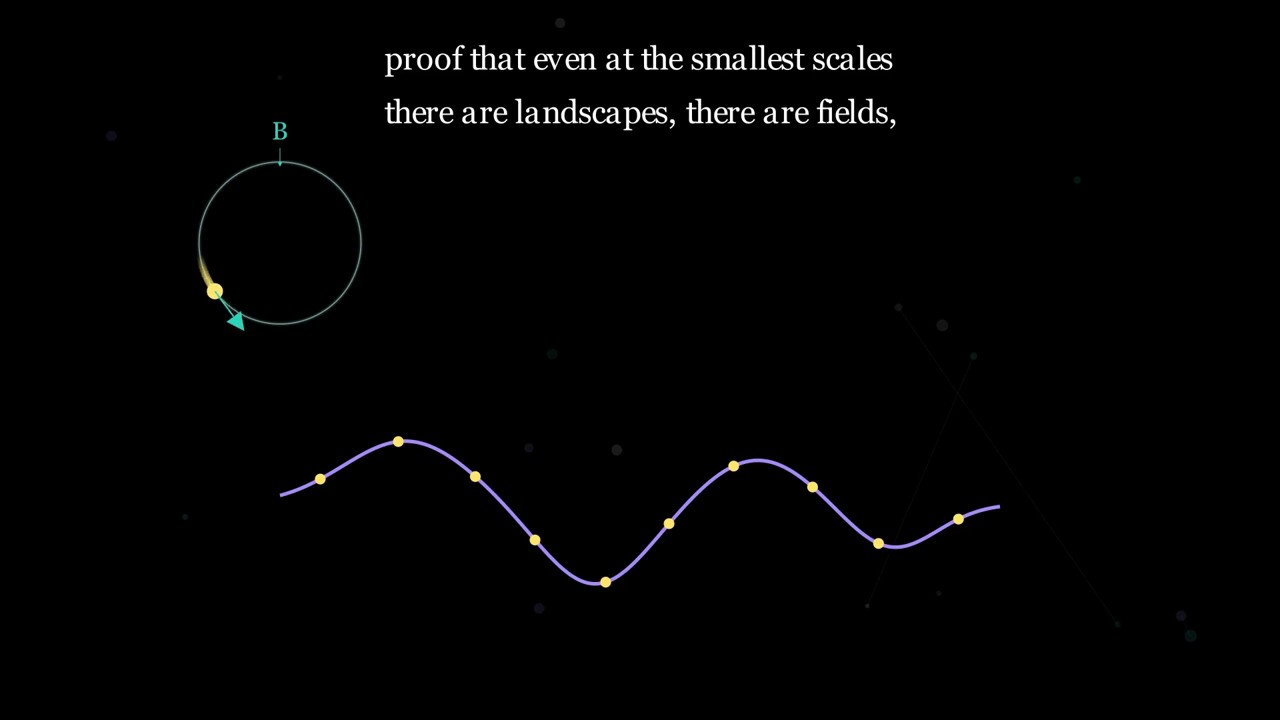
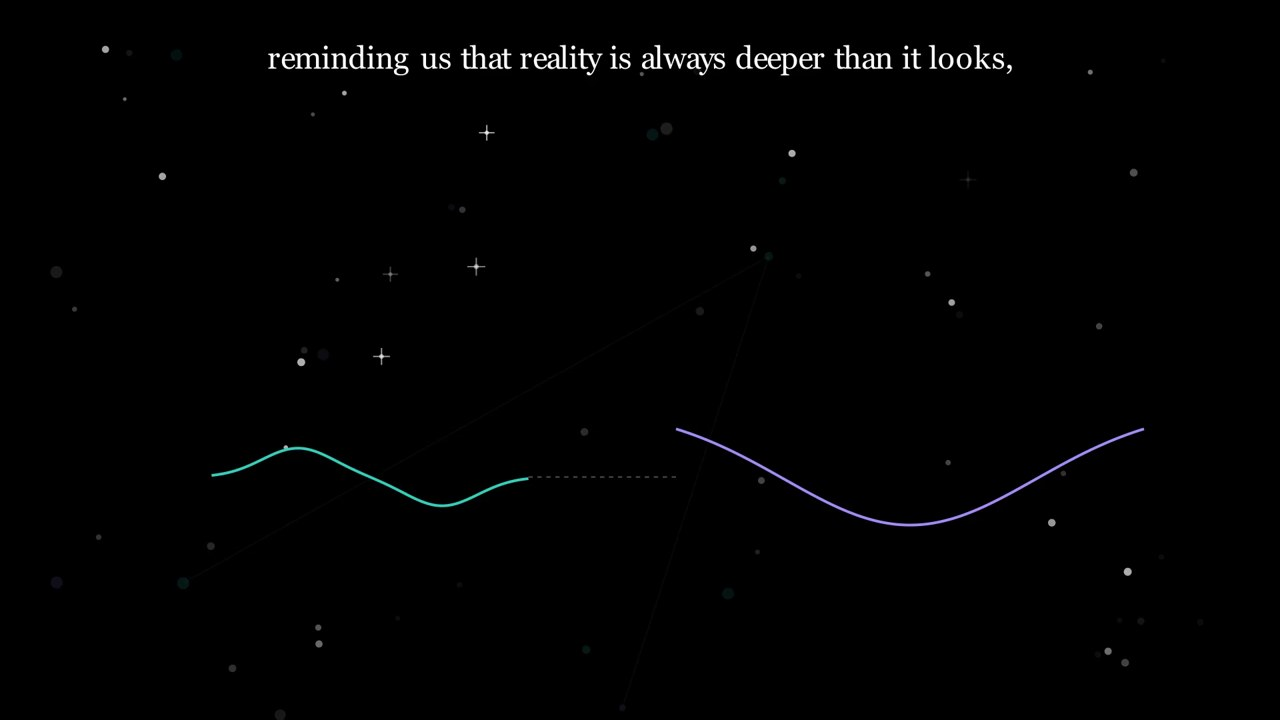
Hidden Geometry: connective transitions between sections
Replace the hard cuts between sections with meaning-carrying morphs so
the piece flows rather than jumping:
- intro curve folds up into the crystal lattice ("geometry folded inside
  matter")
- a lone electron drifts straight in, then the landscape rises under it
  so it begins to curve
- the solid measured curve breaks apart into dashed chalk (rewinds to
  when it "lived only in theory")
- the two landscapes converge to a point and the closing title grows out
  of where they meet
- captions crossfade across every section boundary

Add density: faint reference grid behind the hills, a mote spiralling the
black-hole well with a curved tail. All layered within existing timing;
confirmed 0-58s vocal sync untouched; runtime 153.6s (matches the song).
Refresh thumbnail to the two-landscapes-in-starfield frame.

diff --git a/manim/scenes/hidden_geometry.py b/manim/scenes/hidden_geometry.py
@@ -263,6 +263,19 @@ class HiddenGeometry(Scene):
         self.play_t(FadeOut(old), FadeIn(new), *extra_anims, run_time=run_time)
         return new
 
+    def enter_cap(self, new_cap, *extra_anims, run_time=1.5):
+        """Open a section's first caption. If the previous section handed one
+        off via self._cap, crossfade from it (so scenes flow into each other
+        instead of cutting to black); otherwise write it fresh."""
+        old = getattr(self, "_cap", None)
+        if old is not None:
+            self.play_t(FadeOut(old, shift=UP * 0.2), FadeIn(new_cap, shift=UP * 0.2),
+                        *extra_anims, run_time=run_time)
+            self._cap = None
+        else:
+            self.play_t(Write(new_cap), *extra_anims, run_time=run_time)
+        return new_cap
+
     # ----------------------------------------------------------------
     def construct(self):
         if SONG_MP3.exists():
@@ -383,15 +396,30 @@ class HiddenGeometry(Scene):
                           run_time=2)
         self.wait_until(32.3)
         halo.clear_updaters()
-        self.play_t(FadeOut(grid), FadeOut(area), FadeOut(marble),
-                    FadeOut(line1), FadeOut(title), FadeOut(halo), run_time=1.5)
+        # Keep the hidden valley-curve, its shaded area and the caption alive:
+        # the next line is "a geometry folded inside matter," so rather than
+        # cut to black we fold this very curve into a crystal lattice.
+        self.play_t(FadeOut(marble), FadeOut(title), FadeOut(halo),
+                    grid.animate.set_opacity(0.6), run_time=1.0)
+        self.bridge_curve = grid
+        self.bridge_area = area
+        self.bridge_cap = line1
 
     # ----------------------------------------------------------------
     def folded_in_matter(self):
         cap = Text("A geometry folded inside matter,", font_size=30).to_edge(UP)
         lattice = crystal_lattice().scale(1.1)
+        if hasattr(self, "bridge_curve"):
+            # The intro's hidden curve folds up into a crystal, the caption
+            # rises from the floor to the ceiling, the shading dissolves.
+            self.play_t(FadeOut(self.bridge_cap, shift=UP * 1.8),
+                        FadeIn(cap, shift=UP * 0.3),
+                        ReplacementTransform(self.bridge_curve, lattice),
+                        FadeOut(self.bridge_area), run_time=2.5)
+            del self.bridge_curve
+        else:
+            self.play_t(Write(cap), FadeIn(lattice, scale=0.8), run_time=2.5)
         add_drift(lattice, amp=0.03)
-        self.play_t(Write(cap), FadeIn(lattice, scale=0.8), run_time=2.5)
 
         self.wait_until(37.1)
         cap2 = Text("woven through lattices and charges,", font_size=30).to_edge(UP)
@@ -469,17 +497,30 @@ class HiddenGeometry(Scene):
         self.wait_until(58.1)
         lattice.clear_updaters()
         gap_visual.clear_updaters()
-        self.play_t(FadeOut(cap), FadeOut(lattice), FadeOut(gap_visual),
-                    FadeOut(electron), FadeOut(electron_glow), FadeOut(path),
-                    run_time=1.5)
+        self.play_t(FadeOut(lattice), FadeOut(gap_visual), FadeOut(electron),
+                    FadeOut(electron_glow), FadeOut(path), run_time=1.5)
+        self._cap = cap   # crossfade into the next line, don't cut
 
     # ----------------------------------------------------------------
     def hills_and_valleys(self):
         cap = Text("They don't just move forward—", font_size=30).to_edge(UP)
-        self.play_t(Write(cap), run_time=1.5)
+        # A lone electron drifts in a straight line -- for this one beat it
+        # really is "just moving forward"; the landscape rises under it next.
+        drifter = Dot(color=ELECTRON, radius=0.1).move_to(LEFT * 5.5 + UP * 0.2)
+        dtrail = trail_group(drifter, color=ELECTRON, segments=14)
+        cap = self.enter_cap(cap, FadeIn(drifter), FadeIn(dtrail), run_time=1.5)
+        self.play_t(drifter.animate.move_to(LEFT * 1.5 + UP * 0.2), run_time=1.0,
+                    rate_func=linear)
 
         self.wait_until(63.0)
         cap2 = Text("they curve, they hesitate,", font_size=30).to_edge(UP)
+        # A faint reference grid sits behind the landscape -- "not quite space,
+        # but feels like it."
+        ref_grid = NumberPlane(
+            x_range=[-6, 6, 1.5], y_range=[-2.4, 2.4, 1.2],
+            background_line_style={"stroke_color": GREY_D, "stroke_width": 1,
+                                   "stroke_opacity": 0.16},
+            axis_config={"stroke_opacity": 0})
         curve, f = landscape([(-2.6, 0.7, 0.7), (-0.5, -0.9, 0.6),
                               (1.3, 0.5, 0.6), (2.8, -0.5, 0.5)])
         area = Polygon(*[[x, y, 0] for x, y in
@@ -499,8 +540,12 @@ class HiddenGeometry(Scene):
             m.move_to([x, f(x), 0])
 
         ball.add_updater(ball_upd)
-        cap = self.swap(cap, cap2, FadeIn(area), FadeIn(ticks), Create(curve),
-                        FadeIn(ball), FadeIn(trail), run_time=1.3)
+        # The drifting electron becomes the ball on the landscape -- same
+        # particle, now with ground beneath it.
+        dtrail.clear_updaters()
+        cap = self.swap(cap, cap2, FadeOut(drifter), FadeOut(dtrail),
+                        FadeIn(ref_grid), FadeIn(area), FadeIn(ticks),
+                        Create(curve), FadeIn(ball), FadeIn(trail), run_time=1.3)
         self.play_t(x_tracker.animate.set_value(-1.8), run_time=1.5,
                     rate_func=there_and_back)
 
@@ -531,9 +576,15 @@ class HiddenGeometry(Scene):
         trail.clear_updaters()
         cap = self.swap(cap, cap4, FadeOut(ball_b), run_time=1.5)
         self.wait_until(79.5)
-        self.play_t(FadeOut(cap), FadeOut(curve), FadeOut(ball), FadeOut(trail),
-                    FadeOut(area), FadeOut(ticks), run_time=1.5)
+        ball.clear_updaters()
+        trail.clear_updaters()
+        self.play_t(FadeOut(ball), FadeOut(trail), FadeOut(area),
+                    FadeOut(ticks), FadeOut(ref_grid), run_time=1.3)
         self.hidden_curve_f = f
+        # Hand the real curve + caption to the theory scene: it morphs into a
+        # chalk rumour there ("once it lived only in theory").
+        self.hills_curve = curve
+        self._cap = cap
 
     # ----------------------------------------------------------------
     def theory_to_measured(self):
@@ -566,8 +617,19 @@ class HiddenGeometry(Scene):
                                random.uniform(-1.0, 1.0), 0]))
             for _ in range(14)
         ])
-        self.play_t(Write(cap), Create(ghost), FadeIn(board), FadeIn(tensor),
-                    FadeIn(labels), FadeIn(dust), run_time=2.5)
+        if hasattr(self, "hills_curve"):
+            # The solid, measured curve breaks apart into dashed chalk -- the
+            # story rewinds to when this was only a prediction.
+            self.play_t(FadeOut(self._cap, shift=UP * 0.2),
+                        FadeIn(cap, shift=UP * 0.2),
+                        ReplacementTransform(self.hills_curve, ghost),
+                        FadeIn(board), FadeIn(tensor), FadeIn(labels),
+                        FadeIn(dust), run_time=2.5)
+            self._cap = None
+            del self.hills_curve
+        else:
+            self.play_t(Write(cap), Create(ghost), FadeIn(board), FadeIn(tensor),
+                        FadeIn(labels), FadeIn(dust), run_time=2.5)
 
         self.wait_until(87.0)
         cap2 = Text("a prediction waiting for courage.", font_size=28,
@@ -627,23 +689,24 @@ class HiddenGeometry(Scene):
 
         ball2.add_updater(ball2_upd)
         cap = self.swap(cap, cap5, FadeIn(ball2), FadeIn(trail2), run_time=1)
-        self.play_t(x2.animate.set_value(3.6), run_time=4.5, rate_func=linear)
+        self.play_t(x2.animate.set_value(3.6), run_time=4.0, rate_func=linear)
 
         self.wait_until(111.0)
         orbit.clear_updaters()
         ball2.clear_updaters()
         trail2.clear_updaters()
         b_arrow.clear_updaters()
-        self.play_t(FadeOut(cap), FadeOut(ghost), FadeOut(data_pts),
-                    FadeOut(orbit), FadeOut(b_arrow), FadeOut(b_label),
-                    FadeOut(ball2), FadeOut(trail2), run_time=2)
+        self.play_t(FadeOut(ghost), FadeOut(data_pts), FadeOut(orbit),
+                    FadeOut(b_arrow), FadeOut(b_label), FadeOut(ball2),
+                    FadeOut(trail2), run_time=2)
+        self._cap = cap   # crossfade into "So maybe spacetime isn't just..."
 
     # ----------------------------------------------------------------
     def zoom_to_spacetime(self):
         cap = Text("So maybe spacetime isn't just out there,\nstretching between stars and black holes.",
                    font_size=27, line_spacing=1.2).to_edge(UP)
         lattice = crystal_lattice(rows=3, cols=5, spacing=0.6).scale(0.8)
-        self.play_t(Write(cap), FadeIn(lattice, scale=0.6), run_time=2)
+        cap = self.enter_cap(cap, FadeIn(lattice, scale=0.6), run_time=2)
 
         stars = VGroup(*[
             Dot([random.uniform(-6.5, 6.5), random.uniform(-3.5, 3.5), 0],
@@ -661,7 +724,7 @@ class HiddenGeometry(Scene):
             add_twinkle(s, speed=random.uniform(0.8, 1.4))
         self.play_t(lattice.animate.scale(0.3).set_opacity(0.5),
                     stars.animate.set_opacity(0.7),
-                    sparkles.animate.set_opacity(0.8), run_time=3)
+                    sparkles.animate.set_opacity(0.8), run_time=2)
 
         funnel, _ = landscape([(0, -1.6, 1.6)], x_range=(-4, 4),
                               color=GEO_A, stroke_width=4)
@@ -670,15 +733,31 @@ class HiddenGeometry(Scene):
         hole = Circle(radius=0.12, color=BLACK, fill_opacity=1,
                      stroke_color=GEO_B, stroke_width=2).move_to(DOWN * 1.6)
         add_breathe(ring_glow, amp=0.12, speed=1.1)
+        # A mote spirals the well, dragging a curved tail -- the curvature is
+        # doing something, not just sitting there.
+        orbiter = Dot(color=ELECTRON, radius=0.05)
+        otrail = trail_group(orbiter, color=GEO_B, segments=20, radius=0.03)
+        orbiter.oth = 0.0
+
+        def orb_upd(m, dt):
+            m.oth += dt * 1.7
+            r = max(0.24, 0.75 - 0.05 * m.oth)
+            m.move_to(DOWN * 1.6 + r * np.array([np.cos(m.oth * 2.3),
+                                                 np.sin(m.oth * 2.3), 0]))
+
+        orbiter.add_updater(orb_upd)
         self.play_t(Create(funnel), FadeIn(ring_glow), FadeIn(hole, scale=0.3),
-                    run_time=2)
+                    FadeIn(orbiter), FadeIn(otrail), run_time=2)
 
         self.wait_until(119.0)
         cap2 = Text("Maybe it's everywhere—hidden in the ordinary,",
                    font_size=27).to_edge(UP)
         ring_glow.clear_updaters()
+        orbiter.clear_updaters()
+        otrail.clear_updaters()
         cap = self.swap(cap, cap2, FadeOut(funnel), FadeOut(hole),
-                        FadeOut(ring_glow), FadeOut(lattice), run_time=1.5)
+                        FadeOut(ring_glow), FadeOut(orbiter), FadeOut(otrail),
+                        FadeOut(lattice), run_time=1.5)
 
         icons = VGroup()
         minis = VGroup()
@@ -730,8 +809,13 @@ class HiddenGeometry(Scene):
                     big.animate.set_stroke(width=5, color=GEO_A),
                     link.animate.set_stroke(opacity=0.8), run_time=1.8)
         self.wait_until(144.5)
-        self.play_t(FadeOut(cap), FadeOut(small), FadeOut(big), FadeOut(link),
-                    FadeOut(stars), FadeOut(sparkles), run_time=1.5)
+        # The two scales of curvature converge to a single point -- the title
+        # of the piece rises out of exactly where they meet.
+        self.play_t(FadeOut(cap),
+                    small.animate.move_to(ORIGIN).scale(0.2).set_opacity(0),
+                    big.animate.move_to(ORIGIN).scale(0.2).set_opacity(0),
+                    FadeOut(link), FadeOut(stars), FadeOut(sparkles),
+                    run_time=1.5)
 
     # ----------------------------------------------------------------
     def closing(self):
@@ -741,7 +825,8 @@ class HiddenGeometry(Scene):
                    font_size=20, color=CHALK).next_to(title, DOWN, buff=0.5)
         cite2 = Text("Science 389, 822-825 (2025) · University of Geneva",
                     font_size=18, color=GREY_C).next_to(cite, DOWN, buff=0.2)
-        self.play_t(FadeIn(backdrop), Write(title), run_time=1.5)
+        # Grows from the convergence point of the two landscapes.
+        self.play_t(FadeIn(backdrop), FadeIn(title, scale=0.3), run_time=1.5)
         self.play_t(FadeIn(cite, shift=UP * 0.2), FadeIn(cite2, shift=UP * 0.2),
                    run_time=1.5)
         self.wait_until(152.0)